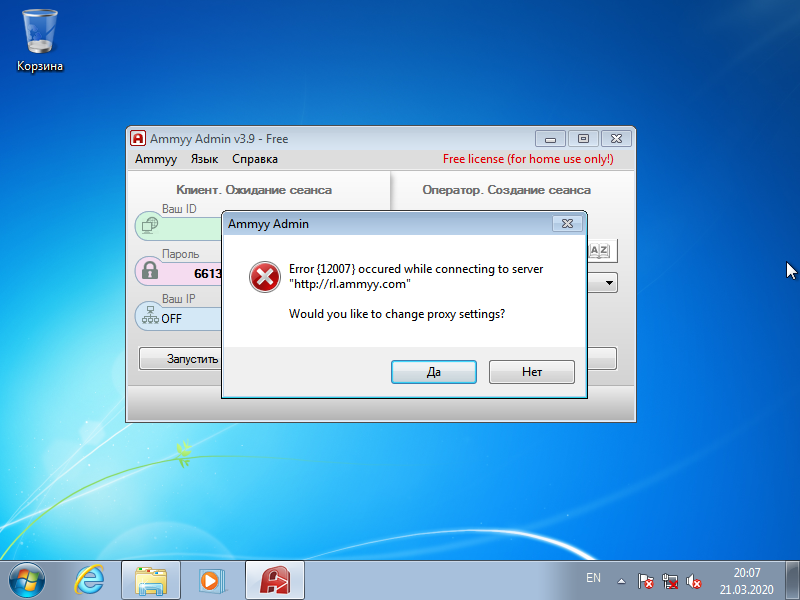
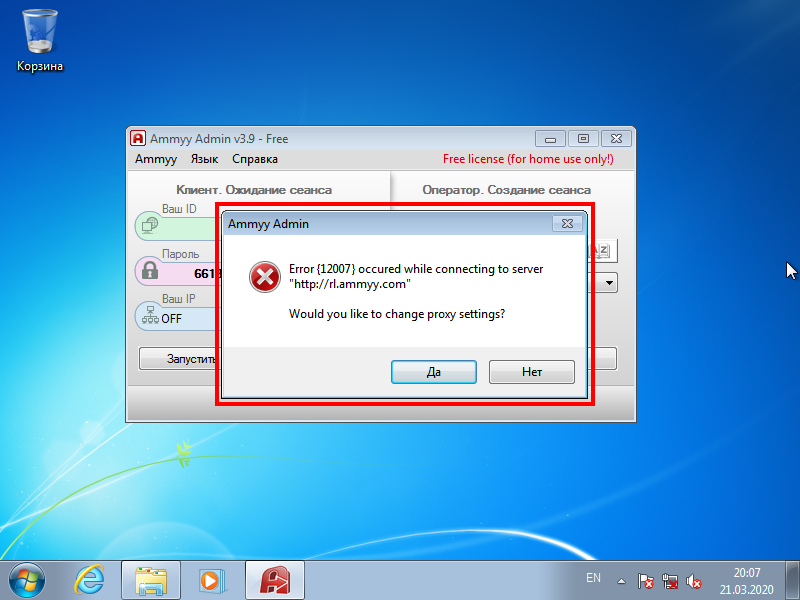
2020-03-22 11:23:26

Changed region(s): [[0.25, 0.33, 0.75, 0.69]]

diff --git a/01.md b/01.md
@@ -14,3 +14,13 @@
 [![](assets/img/0006.png)](assets/img/0006.png)
 
 Готово! Теперь Ваш рабочий компьютер готов к подключению домашнего интернета.
+
+Если программа удалённого доступа при запуске показывает следующее окно:
+
+[![](assets/img/0011.png)](assets/img/0011.png)
+
+1. Нажмите кнопку **Да**.
+2. Уберите галочку *Использовать HTTPs прокси*.  
+[![](assets/img/0012.png)](assets/img/0012.png)
+3. Нажмите кнопку **ОК**.  
+[![](assets/img/0013.png)](assets/img/0013.png)
